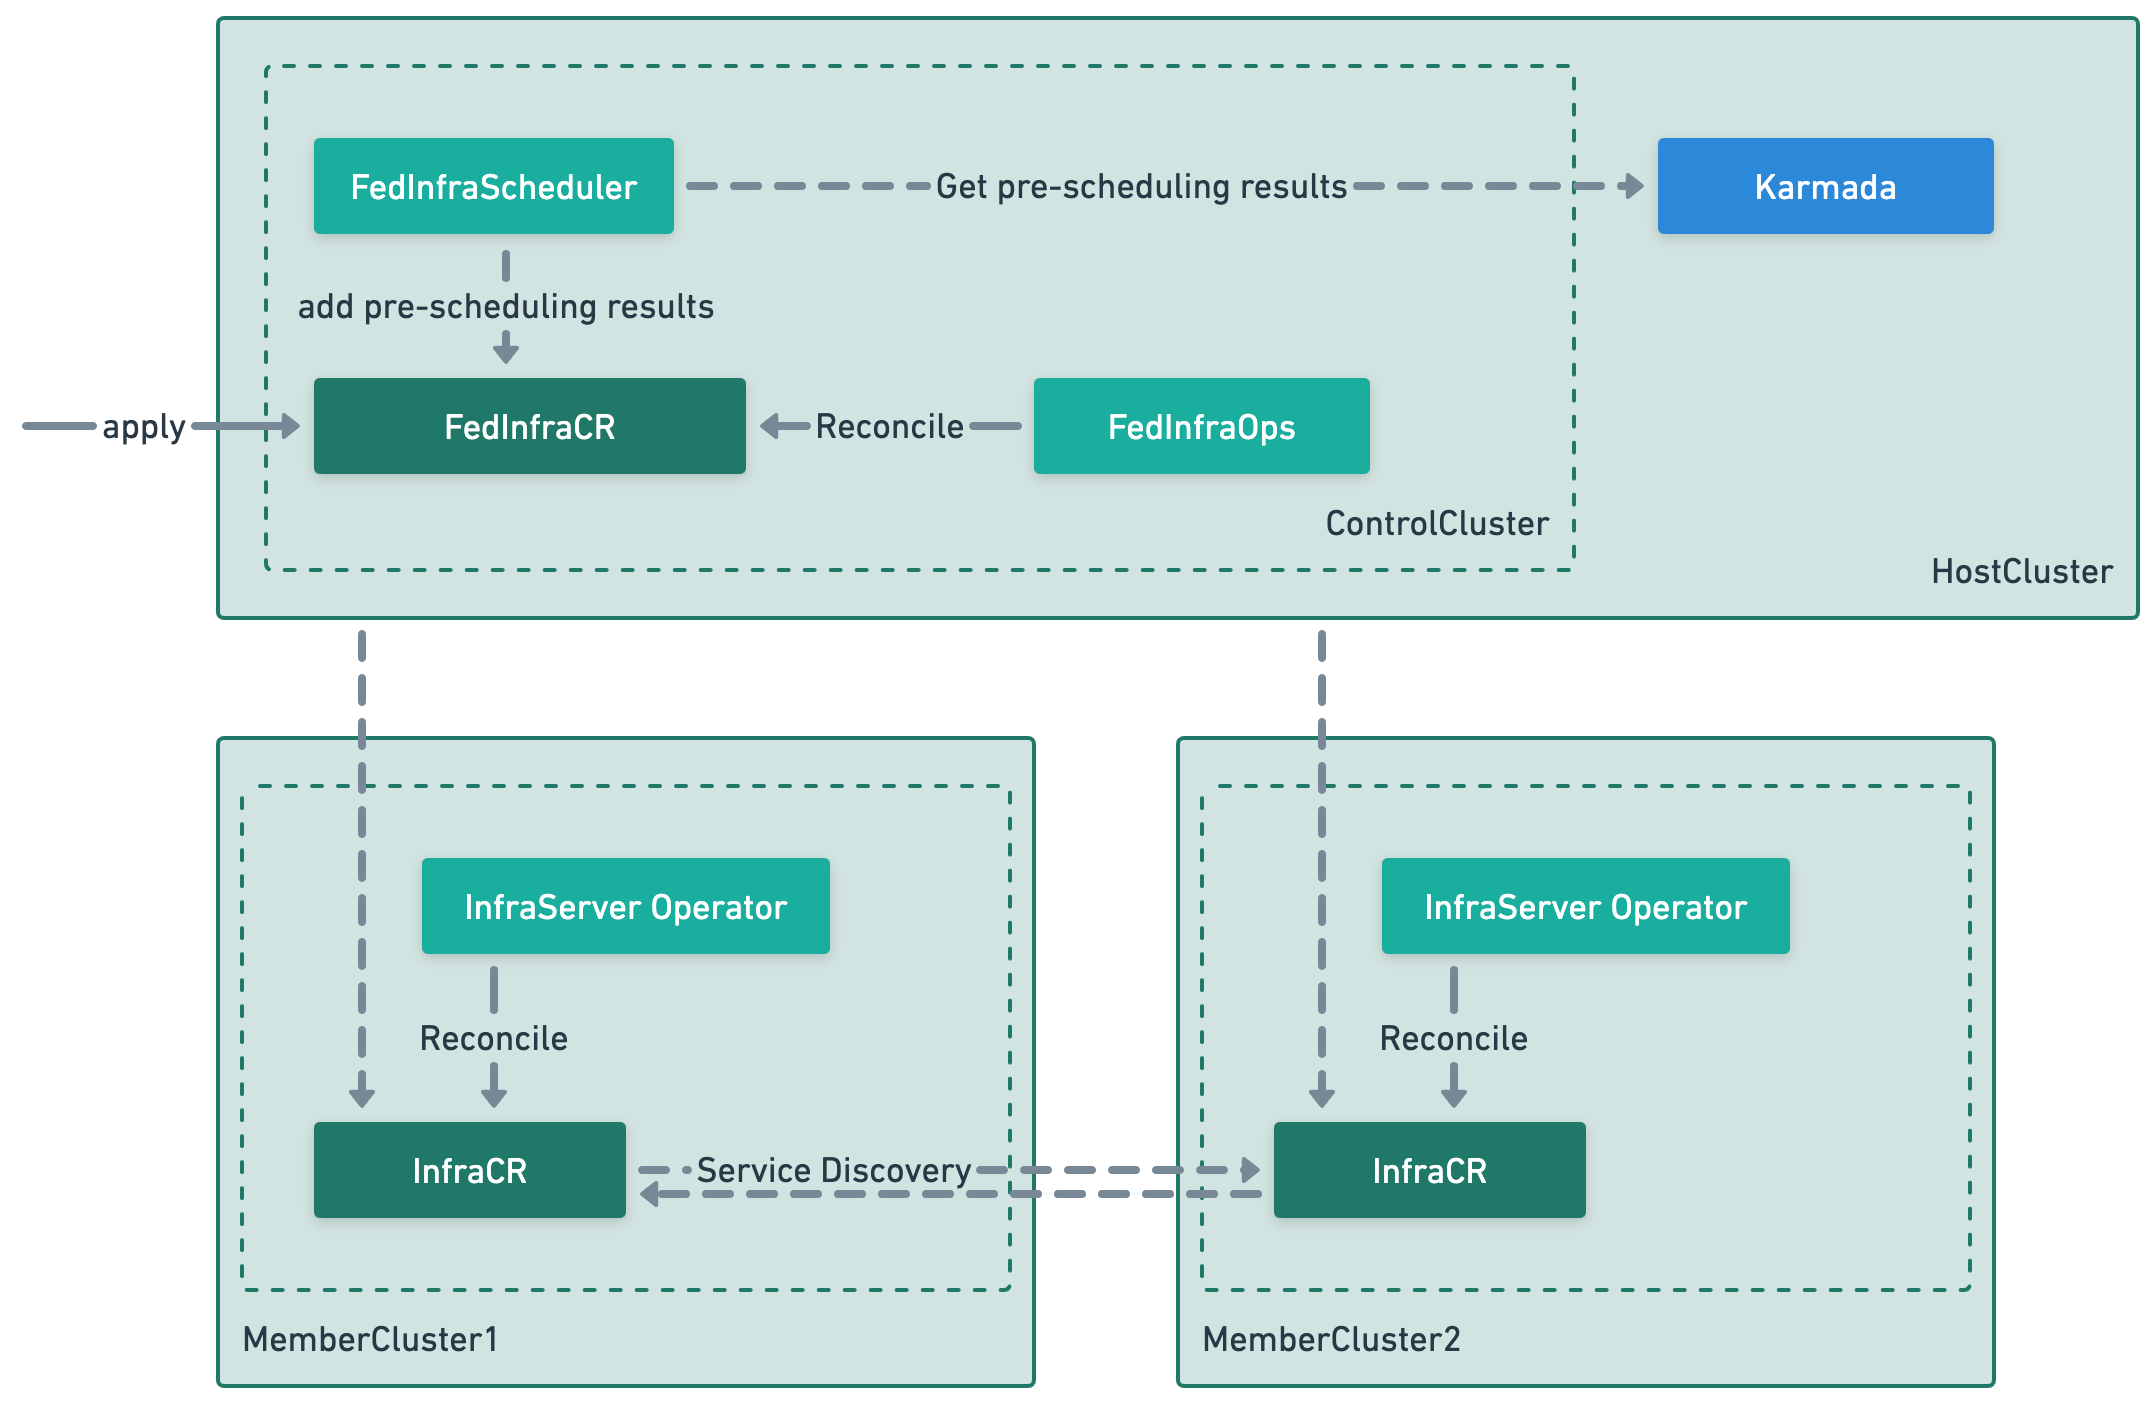
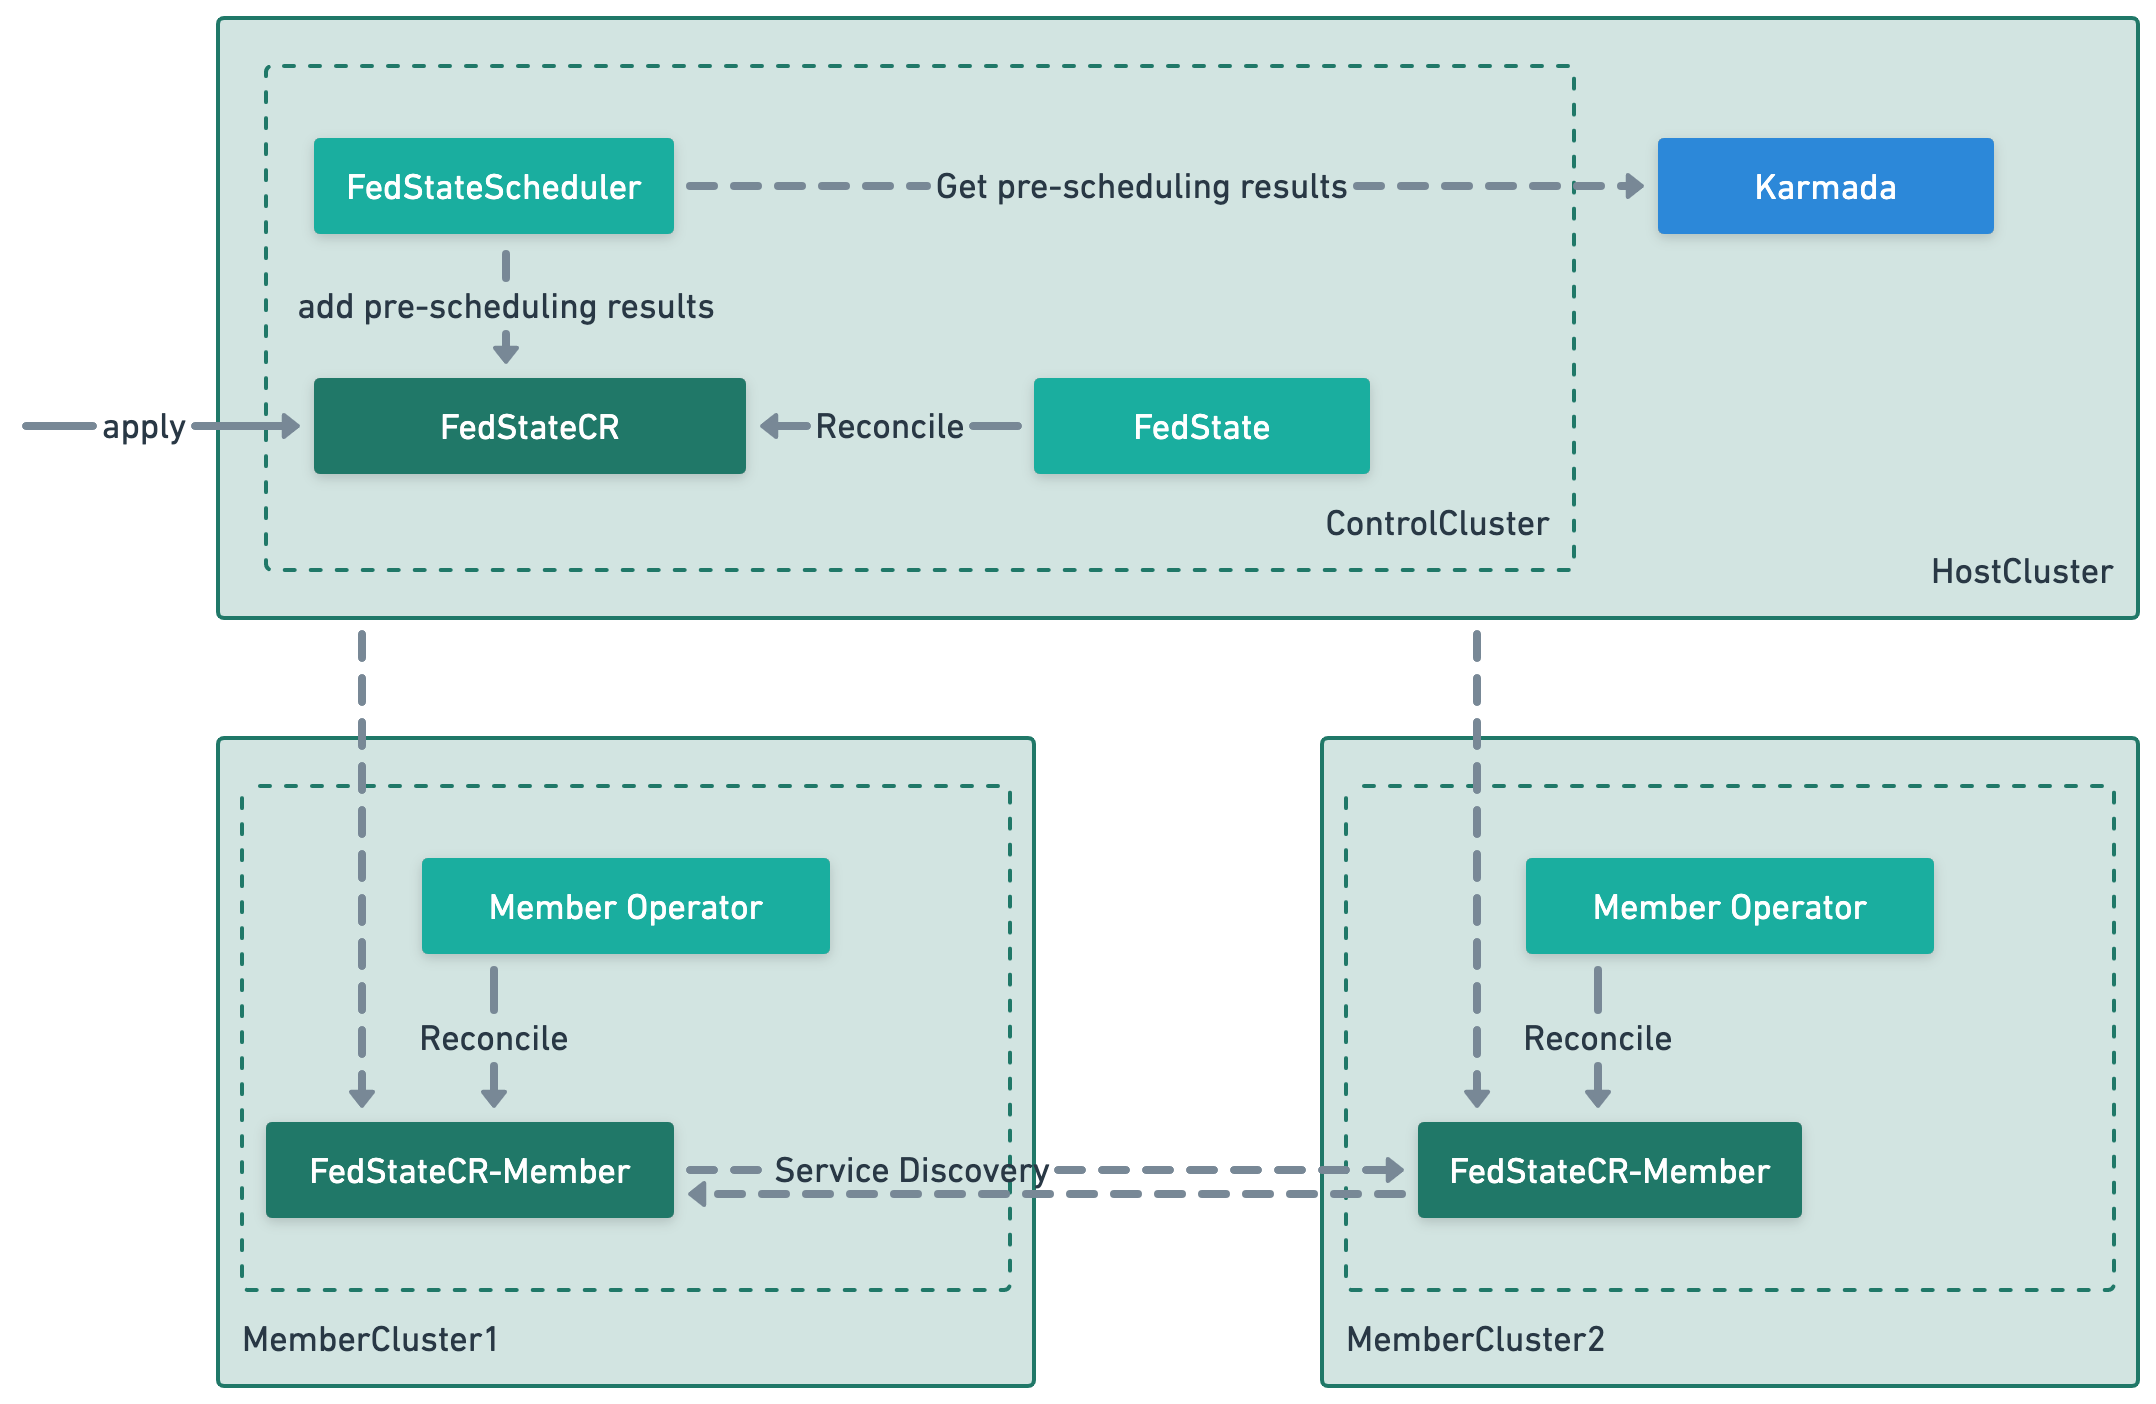
cleanup: add some png
add some png

diff --git a/README.md b/README.md
@@ -6,19 +6,28 @@ FedState是Federation Stateful Service的意思，主要的设计目标是为了
 
 FedState对需要部署在多云环境上的中间件，数据库等有状态的服务通过Karmada下发到各个成员集群，使其正常工作的同时并提供一些高级运维能力。
 
-
 ## 架构：
 
 ![structure.png](config/structure.png)
 
-FedState自身包含以下组件：
+组件说明：
 
-- FedInfraScheduler: 中间件等服务多云环境调度器，包含一些与中间件服务运行时状态相关的调度策略。
-- FedInfraOps：中间件等服务控制器主要负责这些服务的按需配置与通过Karmada分发。
+- FedStateScheduler: 多云有状态服务调度器，在Karmada调度器的基础上，添加了一些与中间件服务相关的调度策略。
+- FedState：多云有状态服务控制器主要负责按需配置各个管控集群与通过Karmada分发。
+- Member Operator：一个概念，表示的是部署在管控平面的有状态服务Operator，FedState内置了Mongo Operator，后续会支持更多的有状态服务。
+- FedStateCR：一个概念，表示多云有状态服务实例。
+- FedStateCR-Member：一个概念，表示多云有状态服务被下发到管控平面的实例。
+
+### FedState目前能力（以接入MongoDB Operator为例）：
+
+- 多云MongoDB扩缩容。
+- 多云MongoDB故障转移。
+- 多云MongoDB配置更新，自定配置。
+- 多云MongoDB资源更新。
 
 ## 快速开始：
 
-在Karmada Host集群，部署FedInfraOps和调度器。在所有Karmada成员集群，部署InfraServer Operator。创建联邦中间件实例。
+部署FedState至Karmada Host集群，部署Member Operator至成员集群，在控制面创建FedStateCR，等待创建成功直到可以对外提供服务。
 
 ### 先决条件：
 
@@ -33,40 +42,46 @@ FedState自身包含以下组件：
 2. 使用Keepalived，HAProxy等服务分别管理两个集群的VIP。
 3. 部署Karmada：[https://karmada.io/docs/installation/](https://karmada.io/docs/installation/)。
 
-### FedInfraOps以及FedInfraScheduler安装（以Mongo为例）：
+### FedState以及FedStateScheduler安装（以Mongo为例）：
 
-1. 在Karmada Host集群，检查所纳管的成员集群是否部署了estimator。
+说明：
 
-```other
-## 检查是否部署了karmada estimator组件。
-kubectl get po -n karmada-system  | grep estimator
-## 如果没有部署，进行karmada estimator组件部署：
-kubectl-karmada addons
-## 检查estimator service的名称后缀必须为{*}-estimator-{clustername}
-kubectl get svc -n karmada-system | grep estimator
+- Karmada Host：指的是部署Karmada组件的集群。
+- Karmada Control：指的是与Karmada Apiserver交互的Karmada控制面。
+1. （可选）在Karmada Host集群，检查所纳管的成员集群是否部署了estimator。
+
+![Image.png](config/Image.png)
+
+如果没有开启estimator，则调度器无法预估多云有状态服务资源设置能否被管控平面满足。
+
+（可选）开启estimator，memberClusterName为想要开始estimator的成员集群名称：
+
+```shell
+karmadactl addons enable  karmada-scheduler-estimator  -C {memberClusterName}
 ```
 
-2. 在Karmada Host集群，部署自定义资源解释器。
+（可选）检查estimator service的名称是否符合以 estimator-{clusterName} 为后缀。
+
+2. 在Karmada Control上部署自定义资源解释器：
 
 ```other
-kubectl apply -f customization.yaml
+kubectl apply -f customresourceinterpreter/pkg/deploy/customization.yaml
 ```
 
-3. 在Karmada Host集群，部署控制面服务 multicloud-mongo-operator。
+3. 在Karmada Host集群上部署控制面服务：
 
 ```other
-cd pkg/install/config
-kubectl create ns federation-mongo-operator
-kubectl create secret generic kubeconfig --from-file=/root/.kube/config -n federation-mongo-operator
+kubectl create ns {your-namespace}
+kubectl create secret generic kubeconfig --from-file=/root/.kube/config -n {your-namespace} 
 ## 在kubeconfig查看Karmada ApiServer名称
 kubectl config get-contexts
 ## 修改manager.yaml将其中的KARMADA_CONTEXT_NAME值改为karmada apiserver名称
-vim manager/manager.yaml
-kubectl apply -f config/webhook/secret.yaml -n federation-mongo-operator
-kubectl apply -k config/deploy_contorlplane/.
+vim config/manager/manager.yaml
+kubectl apply -f config/webhook/secret.yaml -n {your-namespace}
+kubectl apply -k config/deploy_contorlplane/. -n {your-namespace}
 ```
 
-4. 在Karmada Host集群，部署webhook以及控制面的CRD。
+4. 在Karmada Control上部署webhook以及控制面CRD：
 
 ```other
 kubectl label cluster <成员clsuter名称> vip=<成员集群对应的Vip>
@@ -74,29 +89,60 @@ kubectl apply -f config/webhook/external-svc.yaml
 kubectl apply -f config/crd/bases/.
 ```
 
-5. 在Karmada Host集群，部署调度器。
+5. 在Karmada Host集群部署调度器：
 
 ```other
-cd install/scheduler/artifacts
 ## 在kubeconfig查看Karmada Host Apiserver的名称以及Karmada Apiserver的名称和karmada Host的Vip地址
-vim ./deployment.yaml
+vim artifacts/deploy/deployment.yaml
 ## 修改以下启动参数为上面的值           
 - --karmada-context=karmada
 - --host-context=10-29-14-21
 - --host-vip-address=10.29.5.103
 ```
 
-6. 在所有的Karmada的成员集群上，部署数据面控制器mongo-operator。
+6. 在member Cluster上部署数据面控制器：
 
 ```other
-cd insatll/config
-kubectl apply -f config/crd/bases/mongodbs.yaml
+kubectl apply -f config/crd/bases/mongodbs.yaml -n {your-namespace}
 kubectl apply -k config/deploy_dataplane/.
 ```
 
-7. 在Karmada Host集群，创建MultiCloudMongoDB实例。
+7. 在控制面部署MiddleCloudMongoDB：
 
 ```shell
 kubectl apply -f config/sample/samples.yaml
+## sample.yaml:
+apiVersion: middleware.fedstate.io/v1alpha1
+kind: MultiCloudMongoDB
+metadata:
+  name: multicloudmongodb-sample
+spec:
+  ## 副本数
+  replicaset: 5
+  ## 监控配置
+  export:
+    enable: false
+  ## 资源配置
+  resource:
+    limits:
+      cpu: "2"
+      memory: 512Mi
+    requests:
+      cpu: "1"
+      memory: 512Mi
+  ## 存储配置
+  storage:
+    storageClass: managed-nfs-storage
+    storageSize: 1Gi
+  ## 镜像配置
+  imageSetting:
+    image: mongo:3.6
+    imagePullPolicy: Always
 ```
+
+8. 查看MultiCloudMongoDB状态以及各个被管控集群上MongoDB状态：
+
+![multicloudmongodbstatus.png](config/multicloudstatus.png)
+
+使用externalAddr地址连接MongoDB副本集。
 
